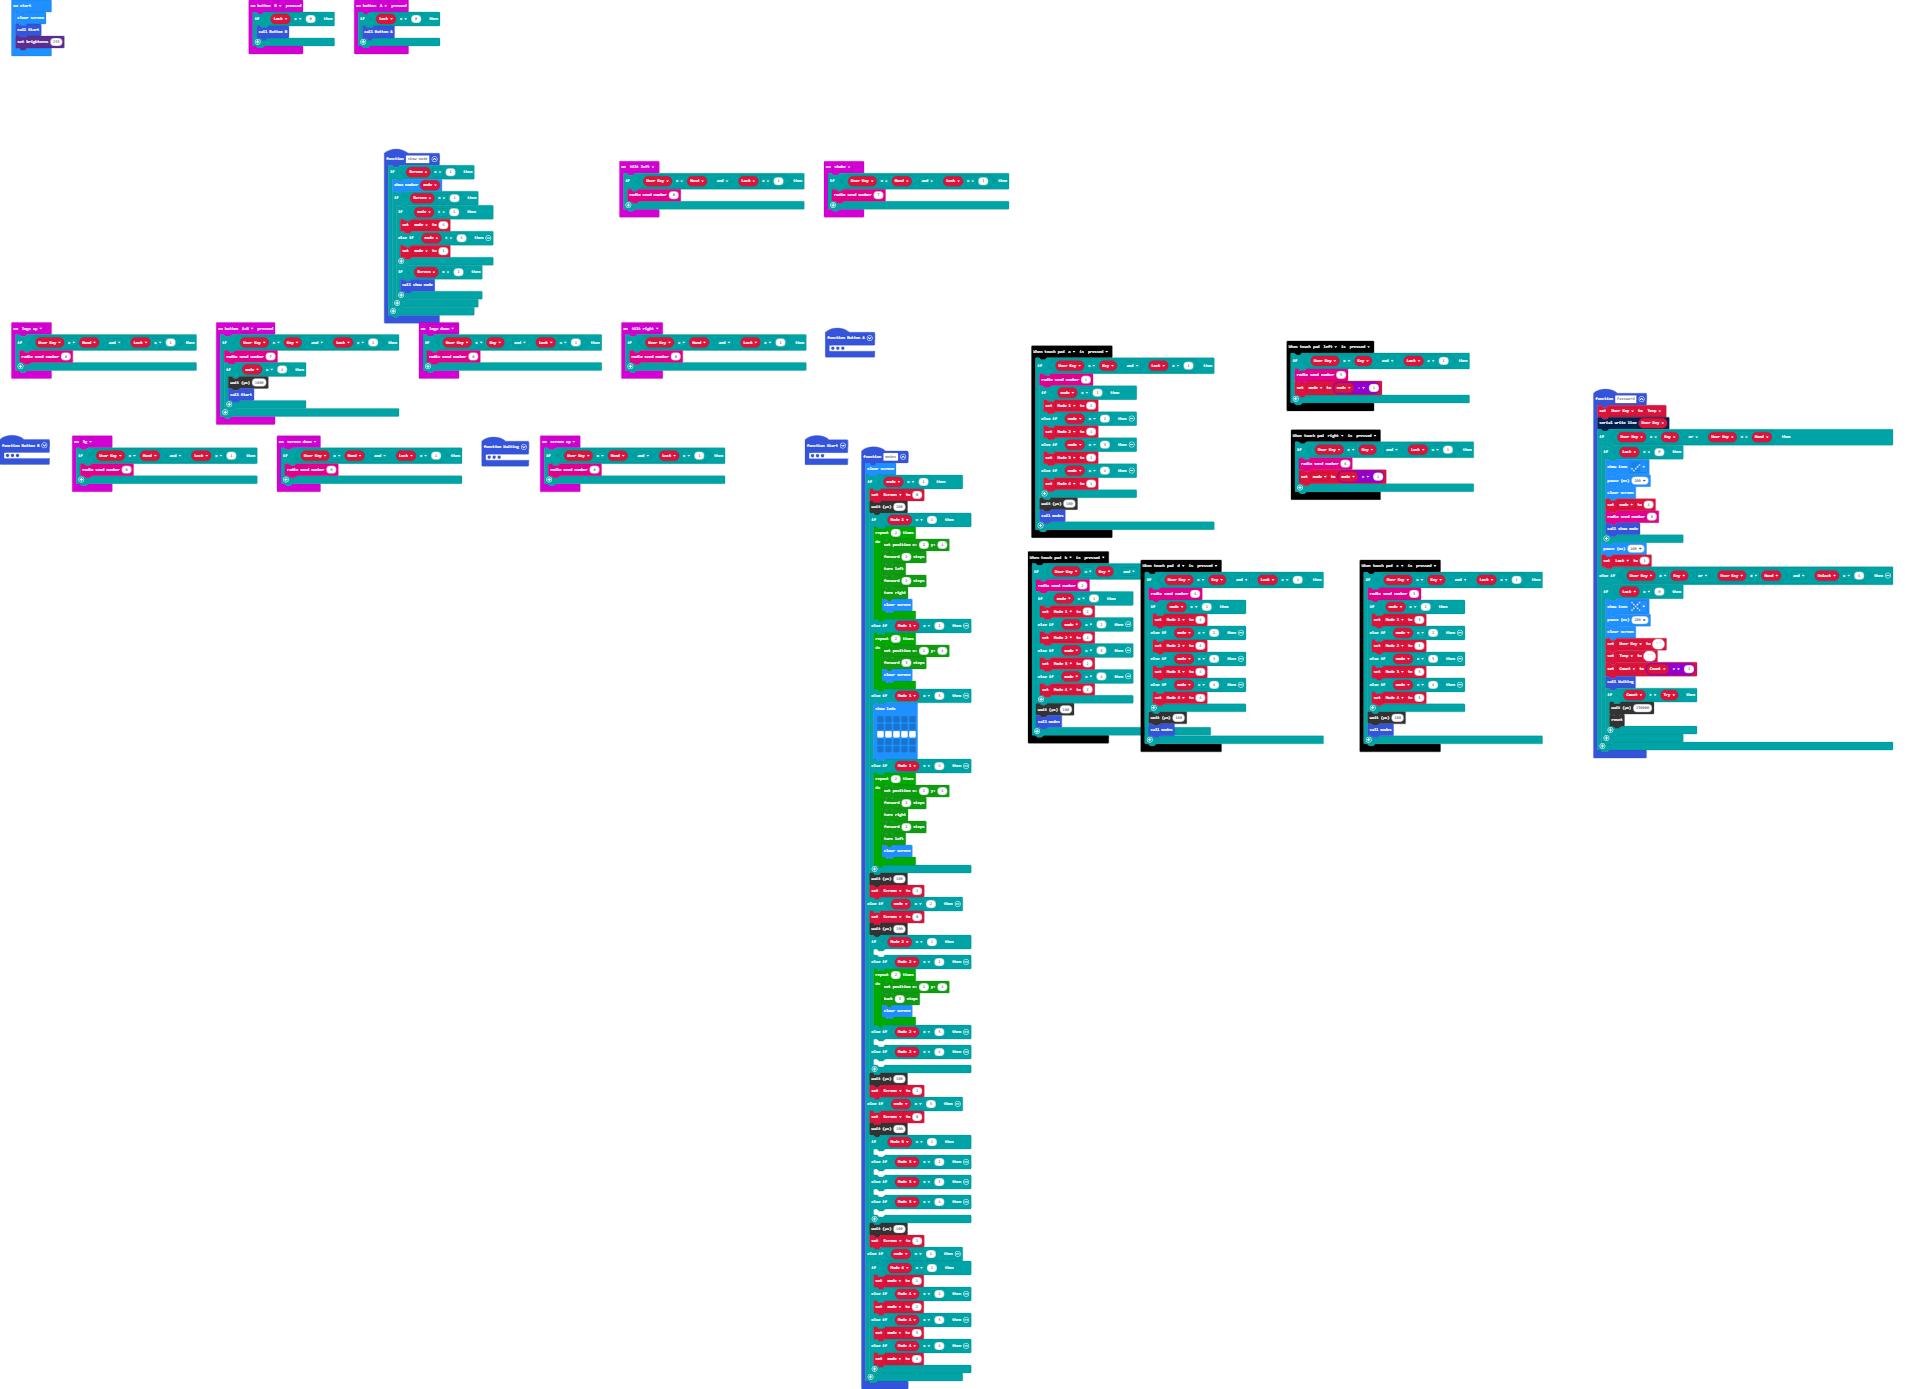
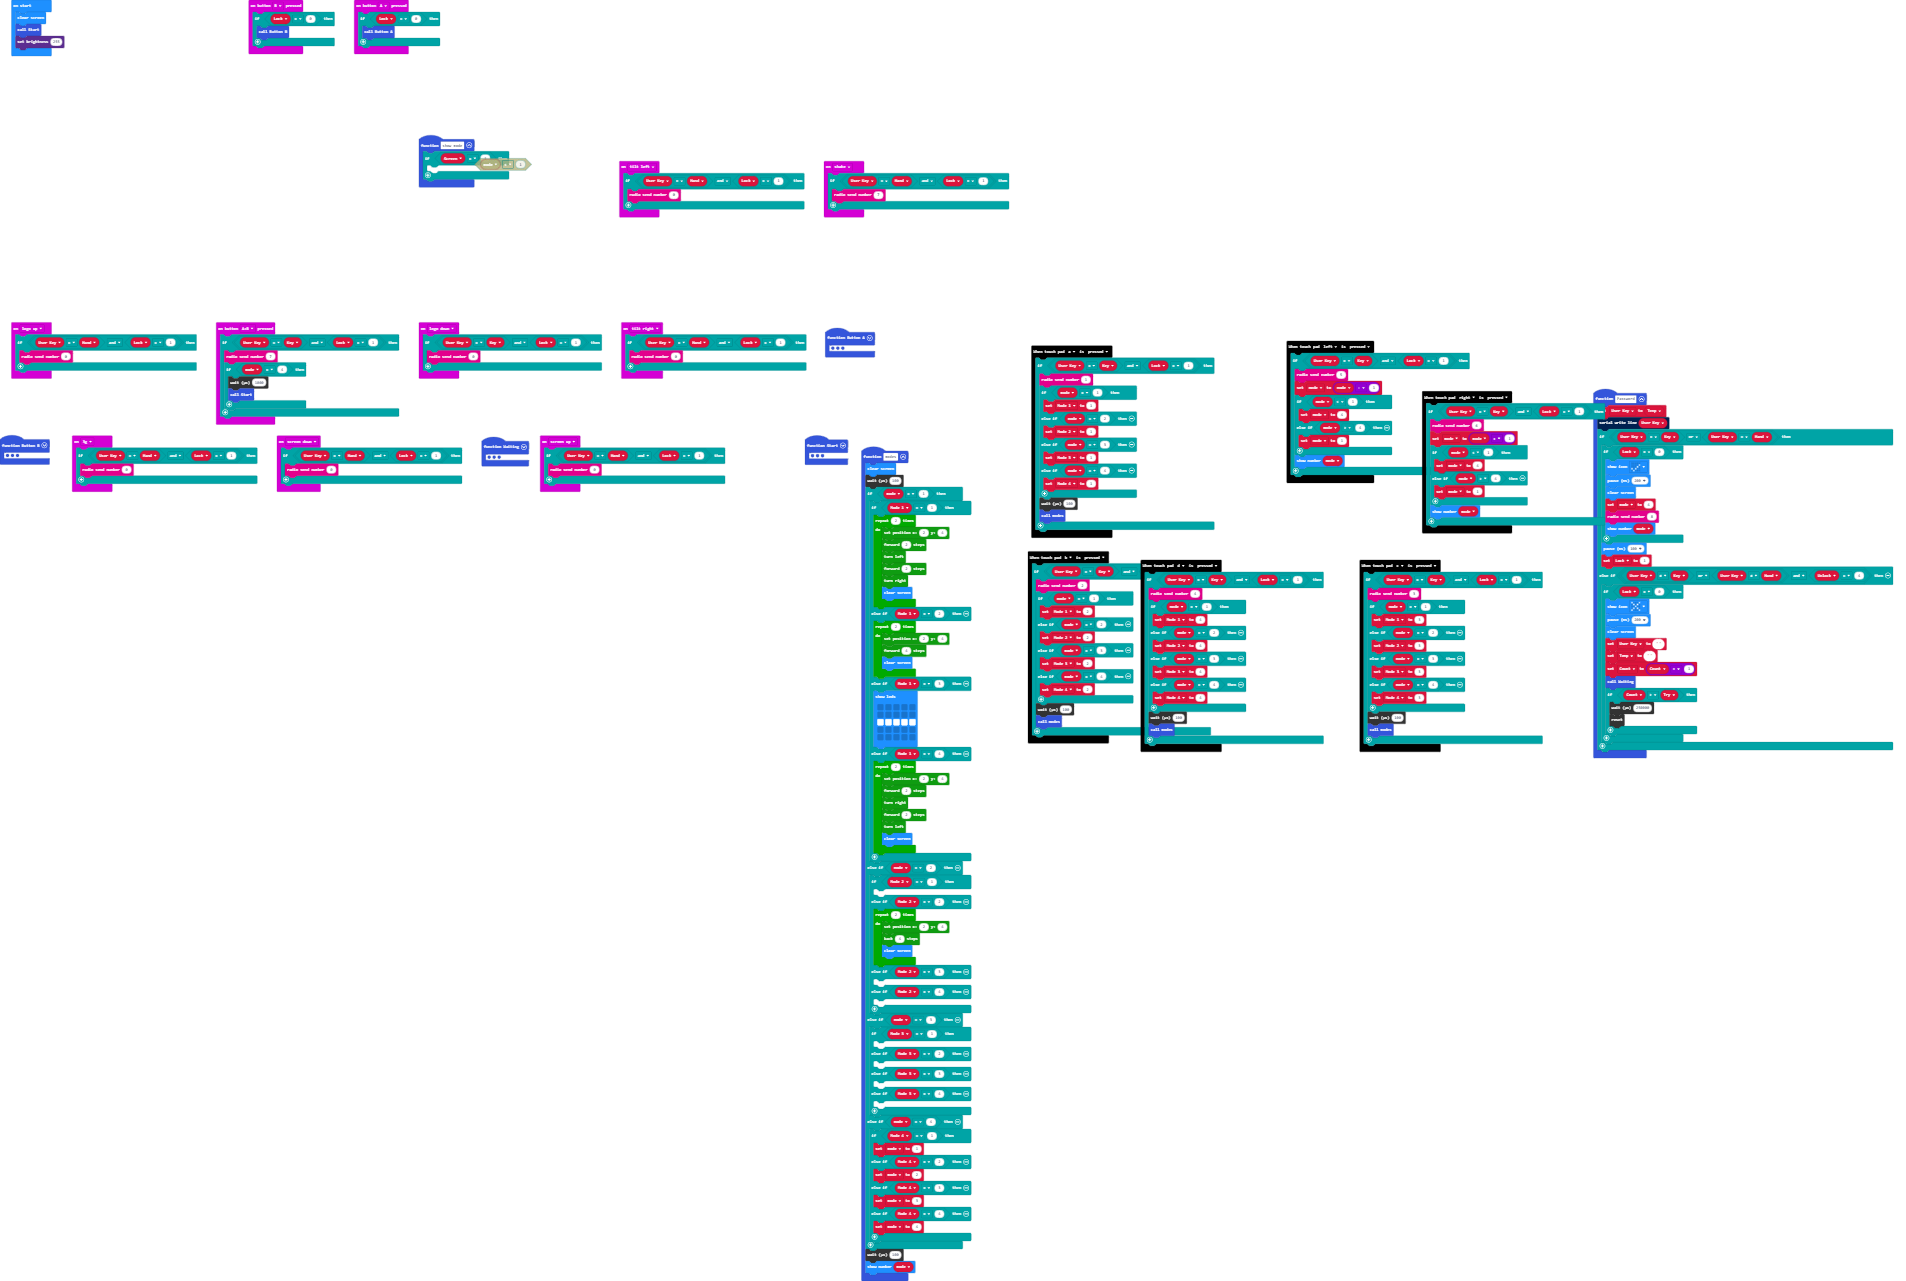
Update main.blocks, main.ts

diff --git a/main.ts b/main.ts
@@ -8,7 +8,7 @@ function Password () {
             basic.clearScreen()
             mode = 4
             radio.sendNumber(8)
-            show_mode()
+            basic.showNumber(mode)
         }
         basic.pause(100)
         Lock = 1
@@ -30,17 +30,7 @@ function Password () {
 }
 function show_mode () {
     if (Screen == 1) {
-        basic.showNumber(mode)
-        if (Screen == 1) {
-            if (mode < 1) {
-                mode = 4
-            } else if (mode > 4) {
-                mode = 1
-            }
-            if (Screen == 1) {
-                show_mode()
-            }
-        }
+    	
     }
 }
 touchbit.on(touchbit.TouchPad.b, touchbit.TouchEvent.pressed, function () {
@@ -127,12 +117,24 @@ touchbit.on(touchbit.TouchPad.right, touchbit.TouchEvent.pressed, function () {
     if (User_Key == Key && Lock == 1) {
         radio.sendNumber(6)
         mode = mode + 1
+        if (mode < 1) {
+            mode = 4
+        } else if (mode > 4) {
+            mode = 1
+        }
+        basic.showNumber(mode)
     }
 })
 touchbit.on(touchbit.TouchPad.left, touchbit.TouchEvent.pressed, function () {
     if (User_Key == Key && Lock == 1) {
         radio.sendNumber(5)
         mode = mode - 1
+        if (mode < 1) {
+            mode = 4
+        } else if (mode > 4) {
+            mode = 1
+        }
+        basic.showNumber(mode)
     }
 })
 input.onGesture(Gesture.ScreenDown, function () {
@@ -167,9 +169,8 @@ input.onButtonPressed(Button.AB, function () {
 })
 function modes () {
     basic.clearScreen()
+    control.waitMicros(100)
     if (mode == 1) {
-        Screen = 0
-        control.waitMicros(100)
         if (Mode_1 == 1) {
             for (let index = 0; index < 2; index++) {
                 turtle.setPosition(2, 4)
@@ -182,7 +183,7 @@ function modes () {
         } else if (Mode_1 == 2) {
             for (let index = 0; index < 2; index++) {
                 turtle.setPosition(2, 4)
-                turtle.forward(3)
+                turtle.forward(4)
                 basic.clearScreen()
             }
         } else if (Mode_1 == 3) {
@@ -203,17 +204,13 @@ function modes () {
                 basic.clearScreen()
             }
         }
-        control.waitMicros(100)
-        Screen = 1
     } else if (mode == 2) {
-        Screen = 0
-        control.waitMicros(100)
         if (Mode_2 == 1) {
         	
         } else if (Mode_2 == 2) {
             for (let index = 0; index < 2; index++) {
                 turtle.setPosition(2, 4)
-                turtle.back(3)
+                turtle.back(4)
                 basic.clearScreen()
             }
         } else if (Mode_2 == 3) {
@@ -221,11 +218,7 @@ function modes () {
         } else if (Mode_2 == 4) {
         	
         }
-        control.waitMicros(100)
-        Screen = 1
     } else if (mode == 3) {
-        Screen = 0
-        control.waitMicros(100)
         if (Mode_3 == 1) {
         	
         } else if (Mode_3 == 2) {
@@ -235,8 +228,6 @@ function modes () {
         } else if (Mode_3 == 4) {
         	
         }
-        control.waitMicros(100)
-        Screen = 1
     } else if (mode == 4) {
         if (Mode_4 == 1) {
             mode = 1
@@ -248,6 +239,8 @@ function modes () {
             mode = 4
         }
     }
+    control.waitMicros(100)
+    basic.showNumber(mode)
 }
 input.onButtonPressed(Button.B, function () {
     if (Lock == 0) {
